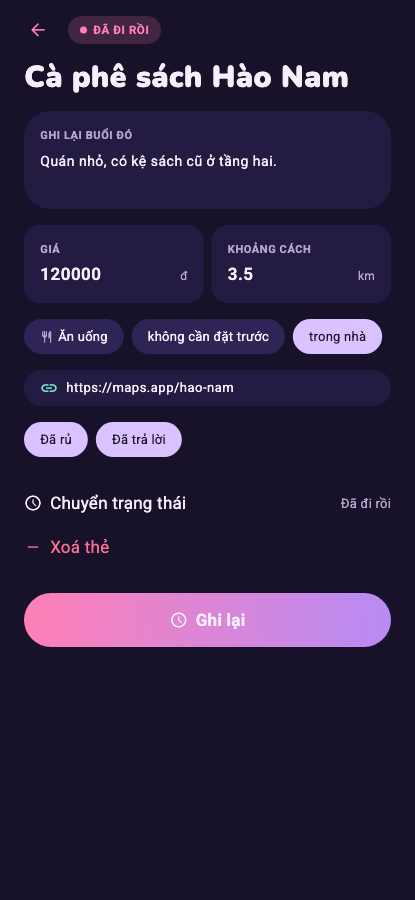
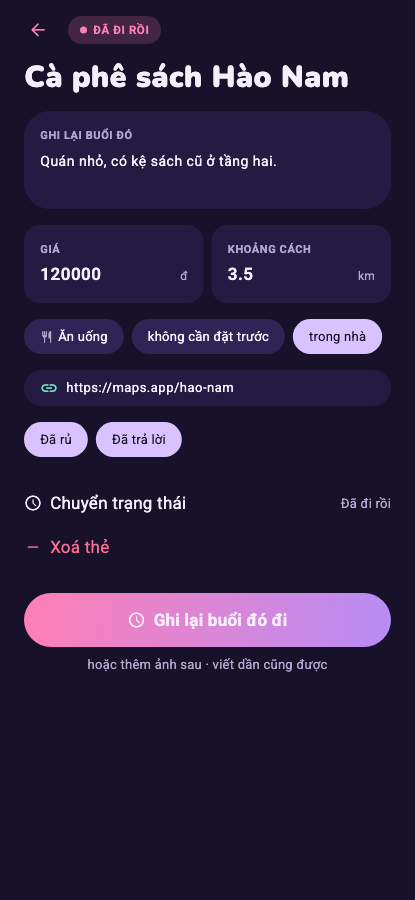
feat(REQ-016_solo_stage1_relationship_assistant/STORY-001): complete story boundary

Changed region(s): [[0.2024, 0.6844, 0.7807, 0.7467]]

diff --git a/data/requirements/REQ-016_solo_stage1_relationship_assistant/STORY-001_activity_card_hub/visual-fidelity/visual-fidelity-report.md b/data/requirements/REQ-016_solo_stage1_relationship_assistant/STORY-001_activity_card_hub/visual-fidelity/visual-fidelity-report.md
@@ -407,11 +407,13 @@ Two notes on what the region does and does not contain:
   same label wherever the action appears, and P4's card tile already ships that
   table through `activityPrimaryActionFor`. Diverging on the detail screen would
   break the tile/detail match. Implemented to the spec.
-  `DESIGN_SPEC_CONFLICT`.
+  `DESIGN_SPEC_CONFLICT`. **Closed in round 7 — the user ruled anchor-on-design;
+  see §9.**
 - **D-19 — A4 puts a secondary line under the CTA ("hoặc soạn lời rủ cho ngọt ·
   để dành hôm khác"), which is two more actions.** SC-4 is "đúng một hành động
   chính" per status. Implemented to the spec: one CTA, no secondary line.
-  `DESIGN_SPEC_CONFLICT`.
+  `DESIGN_SPEC_CONFLICT`. **Closed in round 7 — the user ruled anchor-on-design;
+  see §9.**
 - **D-20 — four glyphs the design uses have no `CupidIcons` token.**
   `event` → `schedule`, `history` → `menuBook`, `image` → `photoCamera`, and the
   delete row's trash → `remove`. `cupid_icons.dart` is outside this phase's
@@ -494,3 +496,91 @@ Two notes on what the region does and does not contain:
 - Design references were rendered from the canvas at 415x900 with
   `render-design-canvas.js`; the `--lang` flag was not passed because this
   canvas exposes no toggles.
+
+## 9. Round 7 — A4 CTA re-capture after the D-18/D-19 rulings
+
+Scope of this round is one screen and one region: the CTA block of
+`chi-tiet-the-moi-nghi-ra`. D-18 and D-19 were raised in round 6 as
+`DESIGN_SPEC_CONFLICT`; the user ruled **anchor on design**, Product Owner
+patched AC-11/AC-13 and `ux/uiux-spec.md` §2 (26427f2), and the CTA block was
+rebuilt in `dedd45b`. Rounds 1-6 are not reopened and no other screen's entry
+was re-measured or re-captured.
+
+- Design-Screen: `chi-tiet-the-moi-nghi-ra`
+- Reference: `design-reference-chi-tiet-the-moi-nghi-ra-ios.png` (415x900,
+  unchanged — D-18/D-19 are visual-copy findings against the same canvas frame,
+  so the reference was not re-sourced)
+- Implementation: `implemented-chi-tiet-the-moi-nghi-ra-ios.png`
+  (`ActivityCardStatus.idea`, *Mới nghĩ ra*) and
+  `implemented-chi-tiet-the-moi-nghi-ra-ios-ghi-lai.png`
+  (`ActivityCardStatus.done`, *Đã đi rồi*), both 415x900, both recaptured
+- Round verdict: **D-18 and D-19 are closed** — the two findings this round was
+  dispatched to re-judge both now match the design. The screen is **not** a
+  clean `PASS`: two cosmetic deltas remain visible in the same CTA region, D-20
+  (icon substitution, carried over from round 6) and D-28 (new, below). Neither
+  is a blocker and neither is an implementation defect, but per
+  `.agent-contract/design-fidelity-spec.md` a visible deviation is not `PASS`,
+  so this round does not turn the head token green.
+
+### 9.1 What the re-capture confirms
+
+- **D-18 closed.** The *Mới nghĩ ra* frame's CTA now reads `Chốt ngày đi thôi`,
+  the canvas string, in place of the fixed SC-4 label `Hẹn ngày`. The pill keeps
+  the design's geometry: full width, 54px tall, `gradientHot` pink→violet,
+  `radiusButton`, leading glyph then label, label centred.
+- **D-18 in the second mode.** The `-ghi-lai` frame reads `Ghi lại buổi đó đi`.
+  The canvas never drew this mode (§8.1), so it is judged against
+  `ux/uiux-spec.md` §2 as patched: same voice, same one-action rule, wording
+  specific to the status.
+- **D-19 closed.** One caption line sits under the CTA in both frames — `hoặc
+  soạn lời rủ cho ngọt · để dành hôm khác` on *Mới nghĩ ra*, matching the
+  canvas string exactly, and `hoặc thêm ảnh sau · viết dần cũng được` on the
+  record mode. It renders as inert prose: `caption` type, `colorTextMuted`, no
+  fill, no border, no tap target, so SC-4's "đúng một hành động chính" still
+  holds visually as well as behaviourally.
+- **No overflow.** The longer D-18 strings fit at the 415pt reference width;
+  `FittedBox(scaleDown)` absorbs the excess and no RenderFlex stripe appears in
+  either frame. The label is never truncated or ellipsised.
+- **Nothing else moved.** Header, status pill, note block, stat cards, chip row,
+  source-link row, invited chips and the two lifecycle rows are pixel-stable
+  against the round-6 frames; the diff is confined to the CTA block.
+
+### 9.2 New delta
+
+- **D-28 — the canvas colours part of the secondary line.** In the reference,
+  `soạn lời rủ cho ngọt` is set in the accent pink while `hoặc` and `· để dành
+  hôm khác` stay muted; the implementation draws the whole line in
+  `colorTextMuted`. The emphasis reads, in the canvas, as a hint that the phrase
+  is tappable — which is exactly what D-19's ruling says it must not be, since
+  SC-4 allows one action. Uniform muted text is the honest rendering of an inert
+  line, so this is left as-is and recorded rather than matched. Cosmetic,
+  not a blocker.
+
+### 9.3 Still open, unchanged by this round
+
+- **D-8** stays open and Product-Owner-owned (§1). Nothing in this round touches
+  it, so the head `VISUAL_FIDELITY:` token stays `FAIL` for the D-8 reason
+  recorded there — this round narrows what FAIL covers, it does not clear it.
+- **D-20** (`event` → `CupidIcons.schedule` on the A4 CTA) is re-confirmed by
+  this capture: the design's CTA glyph is a calendar, the implementation's is a
+  clock. `cupid_icons.dart` is still outside this phase's write scope, so the
+  round-6 substitution note stands unchanged.
+- D-14 to D-17 and D-21 to D-27 were not re-measured; their round-6 text stands.
+
+### 9.4 Method notes
+
+- Same in-test `RepaintBoundary` fallback as rounds 5 and 6, same 415x900
+  viewport, same four TTFs via `FontLoader`, same status read-back guard before
+  each PNG is kept.
+- Command: `flutter test
+  test/features/activity_cards/activity_card_detail_screen_test.dart
+  --dart-define=CAPTURE_VISUALS=true` → `+8: All tests passed!` (round 6 was
+  `+7`; the two D-18/D-19 widget tests from `dedd45b` are in this file).
+- The capture loop writes all three of this file's frames in one pass, so
+  `implemented-the-da-thanh-ky-niem-ios.png` was rewritten and then restored
+  from `HEAD`: A8 is outside this round's write scope. Its in-region content is
+  unaffected either way — §8.1 records that A8's CTA sits below the 900px fold,
+  and D-18/D-19 changed only the CTA block. **A8's frame is nonetheless stale
+  below the fold** (its CTA now reads `Đọc lại · rủ đi lần nữa` and carries a
+  secondary line); refreshing it needs a dispatch whose write scope includes
+  that file.
